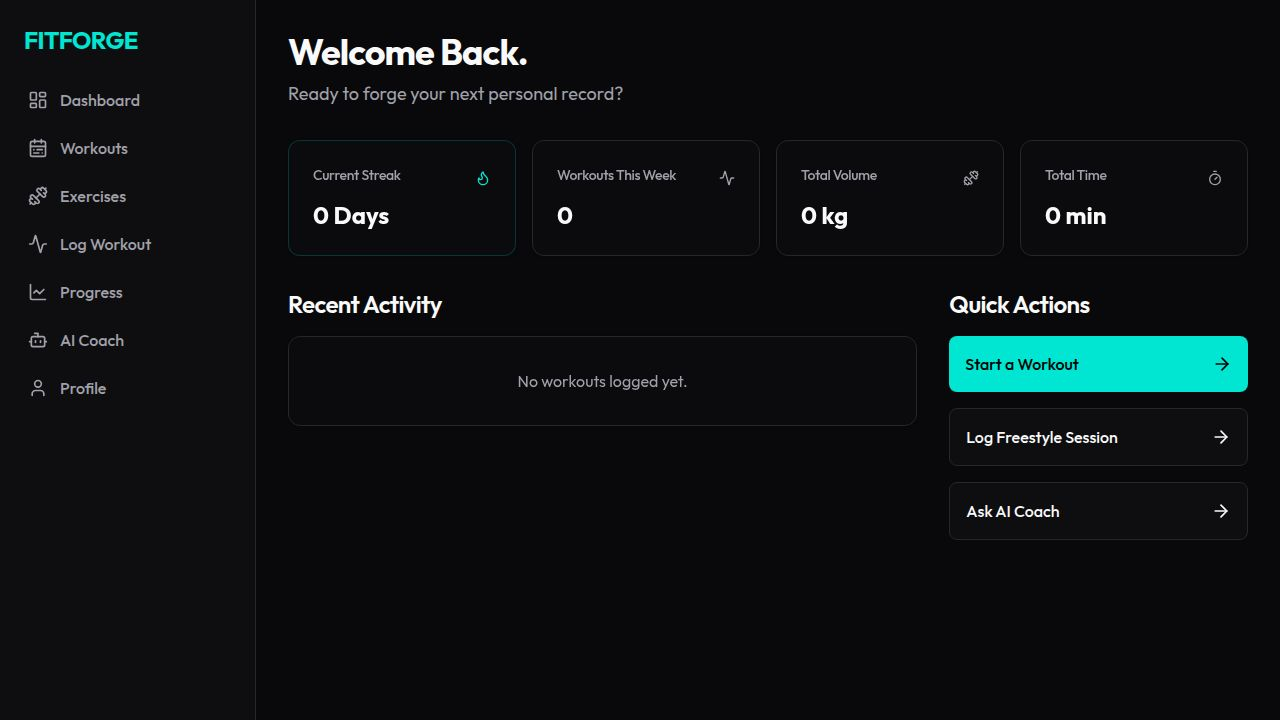
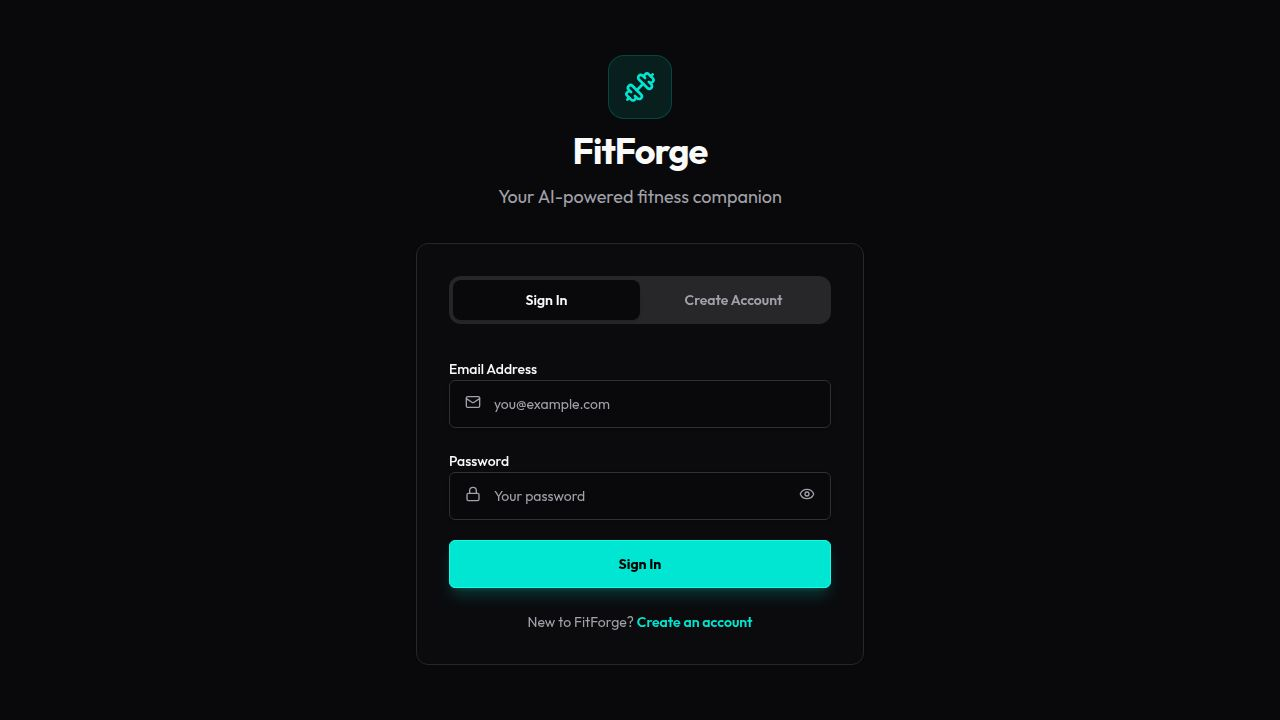
Improve 3D figure proportions and muscle placement using anatomical references
Update 3D model with capsule geometry for limbs, refine proportions for a more realistic human form, and reposition muscle groups to match anatomical references.

Replit-Commit-Author: Agent
Replit-Commit-Session-Id: 5798c0b2-45aa-4167-9583-9a8cffe8b032
Replit-Commit-Checkpoint-Type: full_checkpoint
Replit-Commit-Event-Id: c8c83c99-bdf7-43fe-be36-3fbce3598e2e
Replit-Commit-Screenshot-Url: https://storage.googleapis.com/screenshot-production-us-central1/b1719965-f186-46a0-b0da-e72f25624274/5798c0b2-45aa-4167-9583-9a8cffe8b032/TDmAqq4
Replit-Helium-Checkpoint-Created: true

diff --git a/artifacts/workout-web/src/components/muscle-figure-3d.tsx b/artifacts/workout-web/src/components/muscle-figure-3d.tsx
@@ -3,79 +3,148 @@ import { OrbitControls } from "@react-three/drei";
 import { useMemo } from "react";
 
 const PRIMARY = "#00E6D2";
-const INACTIVE = "#252b3b";
-const SKIN = "#1c2130";
+const INACTIVE = "#2a3550";
+const SKIN = "#1a2236";
+
+// ── Anatomy constants (Y-up coordinate system) ───────────────────────────────
+// Head crown  ≈  y +1.97
+// Shoulder    ≈  y +1.32   x ±0.285
+// Elbow       ≈  y +0.94   x ±0.385
+// Wrist       ≈  y +0.54   x ±0.440
+// Hip joint   ≈  y +0.30   x ±0.145
+// Knee        ≈  y −0.25   x ±0.155
+// Ankle       ≈  y −0.73   x ±0.145
+// Foot bottom ≈  y −0.88
+
+// Upper-arm angle  ≈ 16° outward → rot_z = ±0.28 rad
+// Forearm angle    ≈  8° outward → rot_z = ±0.14 rad
+// Thigh angle      ≈  5° outward → rot_z = ±0.09 rad
 
 interface MusclePart {
   id: string;
-  type: "sphere" | "cylinder" | "box";
+  type: "sphere" | "cylinder" | "capsule" | "box";
   position: [number, number, number];
   rotation?: [number, number, number];
   scale: [number, number, number];
   isSkin?: boolean;
 }
 
-const PARTS: MusclePart[] = [
-  // ── Skin / skeleton ──────────────────────────────────────────────────────
-  { id: "head",      type: "sphere",   position: [0, 1.75, 0],       scale: [0.22, 0.26, 0.22], isSkin: true },
-  { id: "neck",      type: "cylinder", position: [0, 1.46, 0],       scale: [0.09, 0.14, 0.09], isSkin: true },
-  { id: "torso",     type: "box",      position: [0, 0.92, 0],       scale: [0.5, 0.66, 0.28],  isSkin: true },
-  { id: "hips",      type: "box",      position: [0, 0.52, 0],       scale: [0.44, 0.22, 0.27], isSkin: true },
-  { id: "u_arm_l",   type: "cylinder", position: [-0.38, 1.1, 0],    scale: [0.09, 0.36, 0.09], isSkin: true },
-  { id: "u_arm_r",   type: "cylinder", position: [0.38, 1.1, 0],     scale: [0.09, 0.36, 0.09], isSkin: true },
-  { id: "l_arm_l",   type: "cylinder", position: [-0.38, 0.68, 0],   scale: [0.08, 0.34, 0.08], isSkin: true },
-  { id: "l_arm_r",   type: "cylinder", position: [0.38, 0.68, 0],    scale: [0.08, 0.34, 0.08], isSkin: true },
-  { id: "hand_l",    type: "sphere",   position: [-0.38, 0.46, 0],   scale: [0.08, 0.1, 0.06],  isSkin: true },
-  { id: "hand_r",    type: "sphere",   position: [0.38, 0.46, 0],    scale: [0.08, 0.1, 0.06],  isSkin: true },
-  { id: "thigh_l",   type: "cylinder", position: [-0.16, 0.07, 0],   scale: [0.13, 0.5, 0.13],  isSkin: true },
-  { id: "thigh_r",   type: "cylinder", position: [0.16, 0.07, 0],    scale: [0.13, 0.5, 0.13],  isSkin: true },
-  { id: "shin_l",    type: "cylinder", position: [-0.16, -0.56, 0],  scale: [0.09, 0.44, 0.09], isSkin: true },
-  { id: "shin_r",    type: "cylinder", position: [0.16, -0.56, 0],   scale: [0.09, 0.44, 0.09], isSkin: true },
-  { id: "foot_l",    type: "box",      position: [-0.16, -0.85, 0.06], scale: [0.11, 0.07, 0.2], isSkin: true },
-  { id: "foot_r",    type: "box",      position: [0.16, -0.85, 0.06],  scale: [0.11, 0.07, 0.2], isSkin: true },
+// Capsule geometry: args=[radius, length, capSeg, radSeg]
+// We set args=[0.5, 1, 8, 16] and control shape purely via scale.
+// Effective radius = scale.x * 0.5,  effective length = scale.y * 1 + 2*(scale.x*0.5)
+// For simple use: treat scale.y as total length multiplier.
 
-  // ── Muscle groups ─────────────────────────────────────────────────────────
-  // Chest
-  { id: "chest_l",   type: "sphere",   position: [-0.12, 1.1, 0.14],  scale: [0.17, 0.13, 0.1]  },
-  { id: "chest_r",   type: "sphere",   position: [0.12, 1.1, 0.14],   scale: [0.17, 0.13, 0.1]  },
-  // Shoulders
-  { id: "shoulder_l", type: "sphere",  position: [-0.3, 1.28, 0.02],  scale: [0.14, 0.13, 0.13] },
-  { id: "shoulder_r", type: "sphere",  position: [0.3, 1.28, 0.02],   scale: [0.14, 0.13, 0.13] },
-  // Arms
-  { id: "bicep_l",   type: "cylinder", position: [-0.38, 1.12, 0.04], scale: [0.09, 0.2, 0.09]  },
-  { id: "bicep_r",   type: "cylinder", position: [0.38, 1.12, 0.04],  scale: [0.09, 0.2, 0.09]  },
-  { id: "tricep_l",  type: "cylinder", position: [-0.38, 1.08, -0.05], scale: [0.09, 0.2, 0.09] },
-  { id: "tricep_r",  type: "cylinder", position: [0.38, 1.08, -0.05],  scale: [0.09, 0.2, 0.09] },
-  { id: "forearm_l", type: "cylinder", position: [-0.38, 0.7, 0.02],  scale: [0.08, 0.28, 0.08] },
-  { id: "forearm_r", type: "cylinder", position: [0.38, 0.7, 0.02],   scale: [0.08, 0.28, 0.08] },
-  // Core
-  { id: "abs_upper", type: "box",      position: [0, 1.13, 0.145],   scale: [0.16, 0.09, 0.04]  },
-  { id: "abs_mid",   type: "box",      position: [0, 1.0, 0.145],    scale: [0.16, 0.1, 0.04]   },
-  { id: "abs_lower", type: "box",      position: [0, 0.86, 0.145],   scale: [0.16, 0.1, 0.04]   },
-  { id: "oblique_l", type: "cylinder", position: [-0.2, 0.99, 0.1],  rotation: [0, 0, 0.3],  scale: [0.065, 0.26, 0.065] },
-  { id: "oblique_r", type: "cylinder", position: [0.2, 0.99, 0.1],   rotation: [0, 0, -0.3], scale: [0.065, 0.26, 0.065] },
-  // Back
-  { id: "trap",      type: "box",      position: [0, 1.37, -0.12],   scale: [0.44, 0.18, 0.12]  },
-  { id: "lat_l",     type: "sphere",   position: [-0.24, 1.02, -0.11], scale: [0.1, 0.28, 0.1]  },
-  { id: "lat_r",     type: "sphere",   position: [0.24, 1.02, -0.11],  scale: [0.1, 0.28, 0.1]  },
-  { id: "lo_back_l", type: "cylinder", position: [-0.08, 0.84, -0.13], scale: [0.065, 0.22, 0.065] },
-  { id: "lo_back_r", type: "cylinder", position: [0.08, 0.84, -0.13],  scale: [0.065, 0.22, 0.065] },
-  // Legs
-  { id: "glute_l",   type: "sphere",   position: [-0.14, 0.52, -0.15], scale: [0.18, 0.16, 0.14] },
-  { id: "glute_r",   type: "sphere",   position: [0.14, 0.52, -0.15],  scale: [0.18, 0.16, 0.14] },
-  { id: "quad_l",    type: "cylinder", position: [-0.16, 0.1, 0.06],  scale: [0.12, 0.42, 0.12]  },
-  { id: "quad_r",    type: "cylinder", position: [0.16, 0.1, 0.06],   scale: [0.12, 0.42, 0.12]  },
-  { id: "hamstr_l",  type: "cylinder", position: [-0.16, 0.07, -0.08], scale: [0.11, 0.42, 0.11] },
-  { id: "hamstr_r",  type: "cylinder", position: [0.16, 0.07, -0.08],  scale: [0.11, 0.42, 0.11] },
-  { id: "calf_l",    type: "cylinder", position: [-0.16, -0.52, -0.04], scale: [0.09, 0.36, 0.09] },
-  { id: "calf_r",    type: "cylinder", position: [0.16, -0.52, -0.04],  scale: [0.09, 0.36, 0.09] },
+const PARTS: MusclePart[] = [
+  // ──────────────────────────────────────────────────────────────────────────
+  // SKELETON / BODY BASE
+  // ──────────────────────────────────────────────────────────────────────────
+
+  // Head (slightly oval)
+  { id: "head",     type: "sphere",  position: [0, 1.73, 0],         scale: [0.215, 0.255, 0.215],  isSkin: true },
+  // Neck
+  { id: "neck",     type: "capsule", position: [0, 1.46, 0],         scale: [0.085, 0.12, 0.085],   isSkin: true },
+
+  // Torso — two-section taper (wide chest → narrower waist)
+  { id: "torso_hi", type: "box",     position: [0, 1.10, 0],         scale: [0.50, 0.30, 0.260],    isSkin: true },
+  { id: "torso_lo", type: "box",     position: [0, 0.80, 0],         scale: [0.44, 0.24, 0.250],    isSkin: true },
+  // Hips (pelvis block)
+  { id: "hips",     type: "box",     position: [0, 0.56, 0],         scale: [0.43, 0.22, 0.255],    isSkin: true },
+
+  // ── LEFT ARM (angled outward ~16° at upper, ~8° forearm) ─────────────────
+  // Upper arm: shoulder (−0.285, 1.32) → elbow (−0.385, 0.94)
+  // center (−0.335, 1.13), length ≈ 0.40, tilt −16°
+  { id: "u_arm_l",  type: "capsule", position: [-0.335, 1.13, 0],    rotation: [0, 0, -0.28], scale: [0.085, 0.40, 0.085], isSkin: true },
+  // Forearm: elbow (−0.385, 0.94) → wrist (−0.440, 0.54)
+  // center (−0.412, 0.74), length ≈ 0.41, tilt −8°
+  { id: "l_arm_l",  type: "capsule", position: [-0.412, 0.74, 0],    rotation: [0, 0, -0.14], scale: [0.075, 0.41, 0.075], isSkin: true },
+  // Hand
+  { id: "hand_l",   type: "sphere",  position: [-0.445, 0.48, 0],    scale: [0.07, 0.10, 0.055],    isSkin: true },
+
+  // ── RIGHT ARM (mirror) ────────────────────────────────────────────────────
+  { id: "u_arm_r",  type: "capsule", position: [ 0.335, 1.13, 0],    rotation: [0, 0,  0.28], scale: [0.085, 0.40, 0.085], isSkin: true },
+  { id: "l_arm_r",  type: "capsule", position: [ 0.412, 0.74, 0],    rotation: [0, 0,  0.14], scale: [0.075, 0.41, 0.075], isSkin: true },
+  { id: "hand_r",   type: "sphere",  position: [ 0.445, 0.48, 0],    scale: [0.07, 0.10, 0.055],    isSkin: true },
+
+  // ── LEFT LEG (slight outward angle) ──────────────────────────────────────
+  // Thigh: hip (−0.145, 0.30) → knee (−0.155, −0.25) → mostly vertical
+  { id: "thigh_l",  type: "capsule", position: [-0.150, 0.025, 0],   rotation: [0, 0, -0.04], scale: [0.130, 0.56, 0.130], isSkin: true },
+  // Shin: knee → ankle
+  { id: "shin_l",   type: "capsule", position: [-0.152, -0.49, 0],   scale: [0.092, 0.49, 0.092],   isSkin: true },
+  // Foot
+  { id: "foot_l",   type: "box",     position: [-0.150, -0.845, 0.07], scale: [0.108, 0.065, 0.22],  isSkin: true },
+
+  // ── RIGHT LEG ─────────────────────────────────────────────────────────────
+  { id: "thigh_r",  type: "capsule", position: [ 0.150, 0.025, 0],   rotation: [0, 0,  0.04], scale: [0.130, 0.56, 0.130], isSkin: true },
+  { id: "shin_r",   type: "capsule", position: [ 0.152, -0.49, 0],   scale: [0.092, 0.49, 0.092],   isSkin: true },
+  { id: "foot_r",   type: "box",     position: [ 0.150, -0.845, 0.07], scale: [0.108, 0.065, 0.22],  isSkin: true },
+
+  // ──────────────────────────────────────────────────────────────────────────
+  // MUSCLE GROUPS
+  // ──────────────────────────────────────────────────────────────────────────
+
+  // ── CHEST (pectorals — fan shape on front of torso) ───────────────────────
+  { id: "chest_l",   type: "sphere",  position: [-0.13, 1.12, 0.142],  scale: [0.185, 0.145, 0.095] },
+  { id: "chest_r",   type: "sphere",  position: [ 0.13, 1.12, 0.142],  scale: [0.185, 0.145, 0.095] },
+
+  // ── SHOULDERS (deltoids — round cap at shoulder joint) ───────────────────
+  // Anterior + lateral heads visible from front
+  { id: "shoulder_l", type: "sphere", position: [-0.295, 1.30, 0.02],  scale: [0.145, 0.135, 0.145] },
+  { id: "shoulder_r", type: "sphere", position: [ 0.295, 1.30, 0.02],  scale: [0.145, 0.135, 0.145] },
+
+  // ── ARMS ─────────────────────────────────────────────────────────────────
+  // Biceps — front of upper arm, peak at mid upper-arm
+  { id: "bicep_l",   type: "capsule", position: [-0.340, 1.12, 0.045],  rotation: [0, 0, -0.28], scale: [0.080, 0.22, 0.080] },
+  { id: "bicep_r",   type: "capsule", position: [ 0.340, 1.12, 0.045],  rotation: [0, 0,  0.28], scale: [0.080, 0.22, 0.080] },
+  // Triceps — back of upper arm (long head hangs lower)
+  { id: "tricep_l",  type: "capsule", position: [-0.338, 1.10, -0.050], rotation: [0, 0, -0.28], scale: [0.082, 0.26, 0.082] },
+  { id: "tricep_r",  type: "capsule", position: [ 0.338, 1.10, -0.050], rotation: [0, 0,  0.28], scale: [0.082, 0.26, 0.082] },
+  // Forearms (brachioradialis / flexors visible as bulk)
+  { id: "forearm_l", type: "capsule", position: [-0.413, 0.74, 0.02],   rotation: [0, 0, -0.14], scale: [0.072, 0.36, 0.072] },
+  { id: "forearm_r", type: "capsule", position: [ 0.413, 0.74, 0.02],   rotation: [0, 0,  0.14], scale: [0.072, 0.36, 0.072] },
+
+  // ── CORE ─────────────────────────────────────────────────────────────────
+  // Abs — 6-pack on front of lower torso  (2 columns × 3 rows)
+  { id: "abs_r1_l",  type: "box",     position: [-0.075, 1.13, 0.148],  scale: [0.075, 0.078, 0.04] },
+  { id: "abs_r1_r",  type: "box",     position: [ 0.075, 1.13, 0.148],  scale: [0.075, 0.078, 0.04] },
+  { id: "abs_r2_l",  type: "box",     position: [-0.075, 0.99, 0.148],  scale: [0.075, 0.082, 0.04] },
+  { id: "abs_r2_r",  type: "box",     position: [ 0.075, 0.99, 0.148],  scale: [0.075, 0.082, 0.04] },
+  { id: "abs_r3_l",  type: "box",     position: [-0.075, 0.85, 0.148],  scale: [0.075, 0.082, 0.04] },
+  { id: "abs_r3_r",  type: "box",     position: [ 0.075, 0.85, 0.148],  scale: [0.075, 0.082, 0.04] },
+  // Obliques — angled strips at the sides
+  { id: "oblique_l", type: "capsule", position: [-0.215, 0.97, 0.105],  rotation: [0, 0,  0.38], scale: [0.058, 0.30, 0.058] },
+  { id: "oblique_r", type: "capsule", position: [ 0.215, 0.97, 0.105],  rotation: [0, 0, -0.38], scale: [0.058, 0.30, 0.058] },
+
+  // ── BACK ─────────────────────────────────────────────────────────────────
+  // Traps — diamond from neck base across to both acromions
+  { id: "trap",      type: "box",     position: [0, 1.36, -0.123],      scale: [0.460, 0.195, 0.110] },
+  // Lats — V-shape; widest at armpit level, tapers to lumbar
+  { id: "lat_l",     type: "sphere",  position: [-0.230, 1.02, -0.115], scale: [0.110, 0.310, 0.095] },
+  { id: "lat_r",     type: "sphere",  position: [ 0.230, 1.02, -0.115], scale: [0.110, 0.310, 0.095] },
+  // Erector spinae (lower back pillars)
+  { id: "lo_back_l", type: "capsule", position: [-0.075, 0.83, -0.130], scale: [0.060, 0.24, 0.060] },
+  { id: "lo_back_r", type: "capsule", position: [ 0.075, 0.83, -0.130], scale: [0.060, 0.24, 0.060] },
+
+  // ── LEGS ─────────────────────────────────────────────────────────────────
+  // Glutes — large rounded muscles at back of hip
+  { id: "glute_l",   type: "sphere",  position: [-0.148, 0.50, -0.160], scale: [0.185, 0.175, 0.145] },
+  { id: "glute_r",   type: "sphere",  position: [ 0.148, 0.50, -0.160], scale: [0.185, 0.175, 0.145] },
+  // Quads — 4 heads, front of thigh, widest at mid-thigh
+  { id: "quad_l",    type: "capsule", position: [-0.152, 0.04, 0.072],  rotation: [0, 0, -0.04], scale: [0.118, 0.48, 0.100] },
+  { id: "quad_r",    type: "capsule", position: [ 0.152, 0.04, 0.072],  rotation: [0, 0,  0.04], scale: [0.118, 0.48, 0.100] },
+  // Hamstrings — back of thigh
+  { id: "hamstr_l",  type: "capsule", position: [-0.152, 0.02, -0.090], rotation: [0, 0, -0.04], scale: [0.108, 0.44, 0.095] },
+  { id: "hamstr_r",  type: "capsule", position: [ 0.152, 0.02, -0.090], rotation: [0, 0,  0.04], scale: [0.108, 0.44, 0.095] },
+  // Calves (gastrocnemius) — diamond-shaped, back of shin
+  { id: "calf_l",    type: "sphere",  position: [-0.152, -0.52, -0.050], scale: [0.085, 0.200, 0.085] },
+  { id: "calf_r",    type: "sphere",  position: [ 0.152, -0.52, -0.050], scale: [0.085, 0.200, 0.085] },
 ];
 
+// ── Muscle → part ID mapping ──────────────────────────────────────────────────
 const MUSCLE_GROUP_MAP: Record<string, string[]> = {
   chest:     ["chest_l", "chest_r"],
   shoulders: ["shoulder_l", "shoulder_r", "trap"],
   arms:      ["bicep_l", "bicep_r", "tricep_l", "tricep_r", "forearm_l", "forearm_r"],
-  core:      ["abs_upper", "abs_mid", "abs_lower", "oblique_l", "oblique_r"],
+  core:      ["abs_r1_l", "abs_r1_r", "abs_r2_l", "abs_r2_r", "abs_r3_l", "abs_r3_r", "oblique_l", "oblique_r"],
   back:      ["trap", "lat_l", "lat_r", "lo_back_l", "lo_back_r"],
   legs:      ["quad_l", "quad_r", "hamstr_l", "hamstr_r", "glute_l", "glute_r", "calf_l", "calf_r"],
 };
@@ -89,28 +158,30 @@ function buildActiveSet(activeMuscles: string[]): Set<string> {
   return s;
 }
 
+// ── Per-mesh renderer ─────────────────────────────────────────────────────────
 function BodyMesh({ part, isActive }: { part: MusclePart; isActive: boolean }) {
   const color = part.isSkin ? SKIN : isActive ? PRIMARY : INACTIVE;
-  const emissiveIntensity = isActive && !part.isSkin ? 0.35 : 0;
+  const emissive = isActive && !part.isSkin ? PRIMARY : "#000000";
+  const emissiveIntensity = isActive && !part.isSkin ? 0.40 : 0;
 
   const geo = useMemo(() => {
-    if (part.type === "sphere")   return <sphereGeometry args={[1, 20, 14]} />;
-    if (part.type === "cylinder") return <cylinderGeometry args={[0.9, 1, 1, 16]} />;
+    if (part.type === "sphere")
+      return <sphereGeometry args={[1, 24, 16]} />;
+    if (part.type === "capsule")
+      return <capsuleGeometry args={[0.5, 1, 8, 16]} />;
+    if (part.type === "cylinder")
+      return <cylinderGeometry args={[0.9, 1, 1, 16]} />;
     return <boxGeometry args={[1, 1, 1]} />;
   }, [part.type]);
 
   return (
-    <mesh
-      position={part.position}
-      rotation={part.rotation ?? [0, 0, 0]}
-      scale={part.scale}
-    >
+    <mesh position={part.position} rotation={part.rotation ?? [0, 0, 0]} scale={part.scale}>
       {geo}
       <meshStandardMaterial
         color={color}
-        emissive={isActive && !part.isSkin ? PRIMARY : "#000000"}
+        emissive={emissive}
         emissiveIntensity={emissiveIntensity}
-        roughness={0.65}
+        roughness={0.55}
         metalness={0.05}
       />
     </mesh>
@@ -128,6 +199,7 @@ function HumanFigure({ activeMuscles }: { activeMuscles: string[] }) {
   );
 }
 
+// ── Public component ──────────────────────────────────────────────────────────
 interface Props {
   activeMuscles: string[];
   size?: number;
@@ -141,23 +213,26 @@ export function MuscleFigure3D({ activeMuscles, size = 200, autoRotate = false }
   return (
     <div style={{ width: size, height, userSelect: "none" }}>
       <Canvas
-        camera={{ position: [0, 0.55, 2.6], fov: 42 }}
+        camera={{ position: [0, 0.50, 2.65], fov: 42 }}
         style={{ background: "transparent" }}
         gl={{ antialias: true, alpha: true }}
       >
-        <ambientLight intensity={0.5} />
-        <directionalLight position={[2, 4, 3]} intensity={1.1} color="#ffffff" />
-        <directionalLight position={[-2, 1, -3]} intensity={0.4} color="#8090cc" />
-        {hasActive && <pointLight position={[0, 1.2, 1.2]} intensity={0.9} color={PRIMARY} distance={4} />}
+        <ambientLight intensity={0.55} />
+        <directionalLight position={[2.5, 4, 3.5]} intensity={1.2} color="#ffffff" castShadow />
+        <directionalLight position={[-2, 2, -3]} intensity={0.45} color="#7090bb" />
+        <directionalLight position={[0, -2, 2]} intensity={0.20} color="#334466" />
+        {hasActive && (
+          <pointLight position={[0, 1.1, 1.4]} intensity={1.1} color={PRIMARY} distance={4.5} />
+        )}
         <HumanFigure activeMuscles={activeMuscles} />
         <OrbitControls
           autoRotate={autoRotate}
-          autoRotateSpeed={1.6}
+          autoRotateSpeed={1.4}
           enableZoom={false}
           enablePan={false}
           minPolarAngle={Math.PI * 0.15}
           maxPolarAngle={Math.PI * 0.85}
-          target={[0, 0.5, 0]}
+          target={[0, 0.45, 0]}
         />
       </Canvas>
     </div>